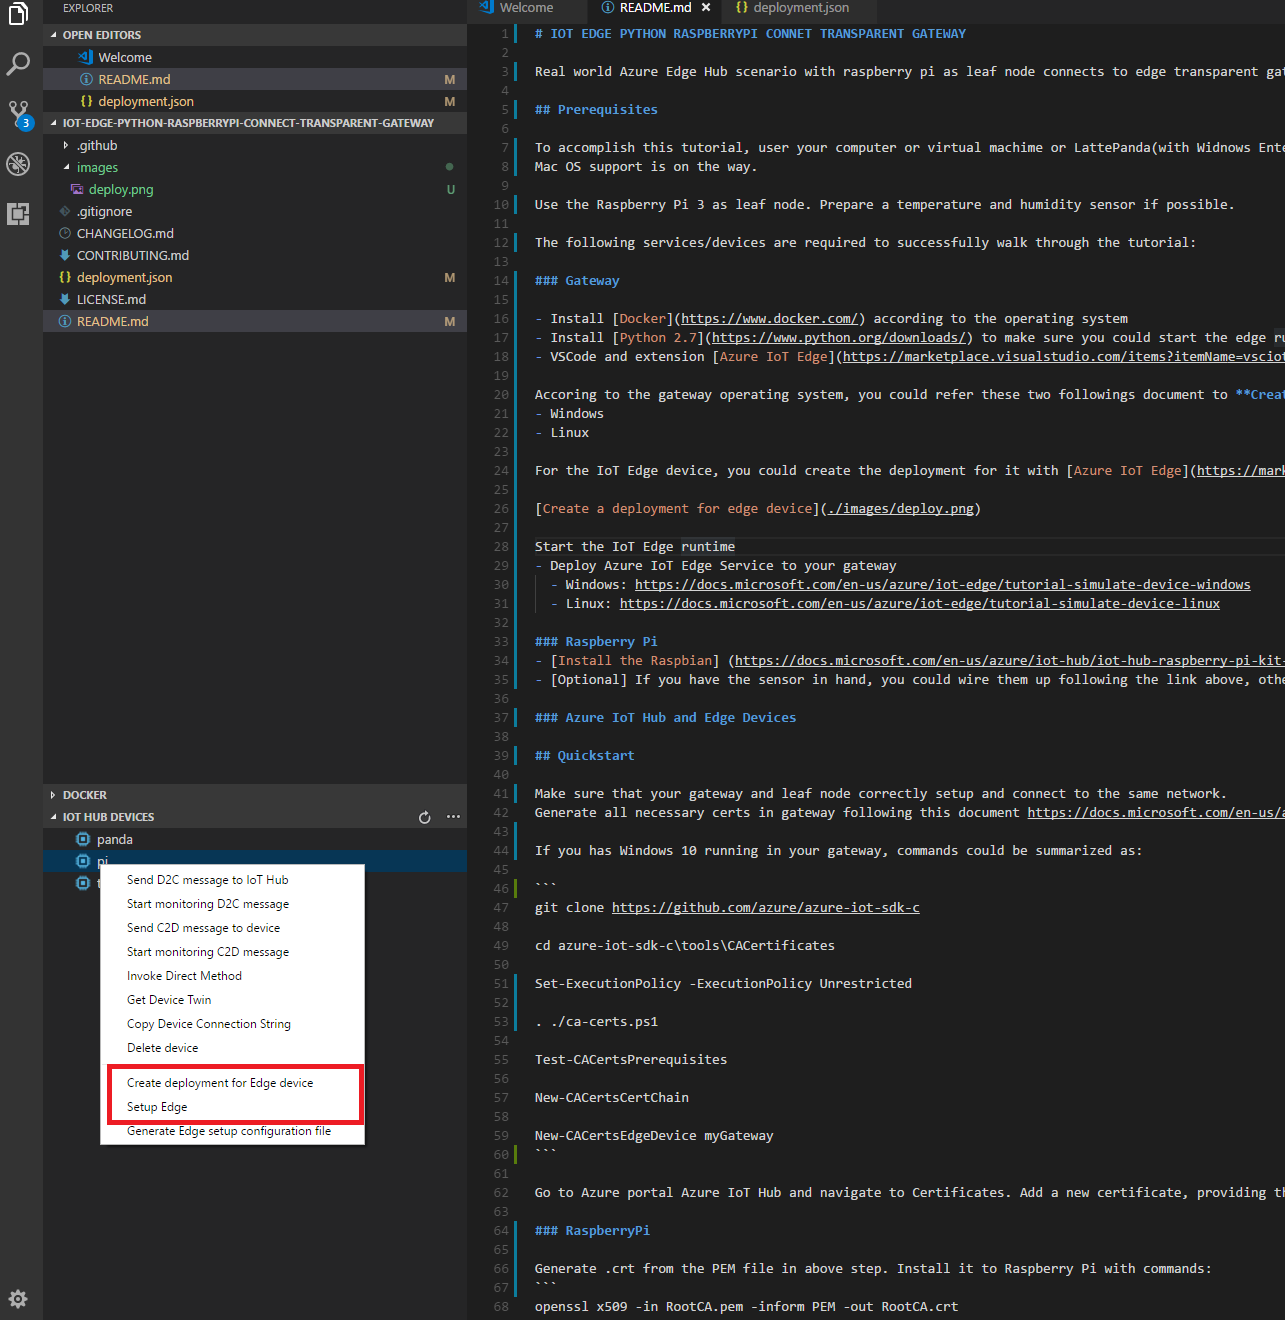
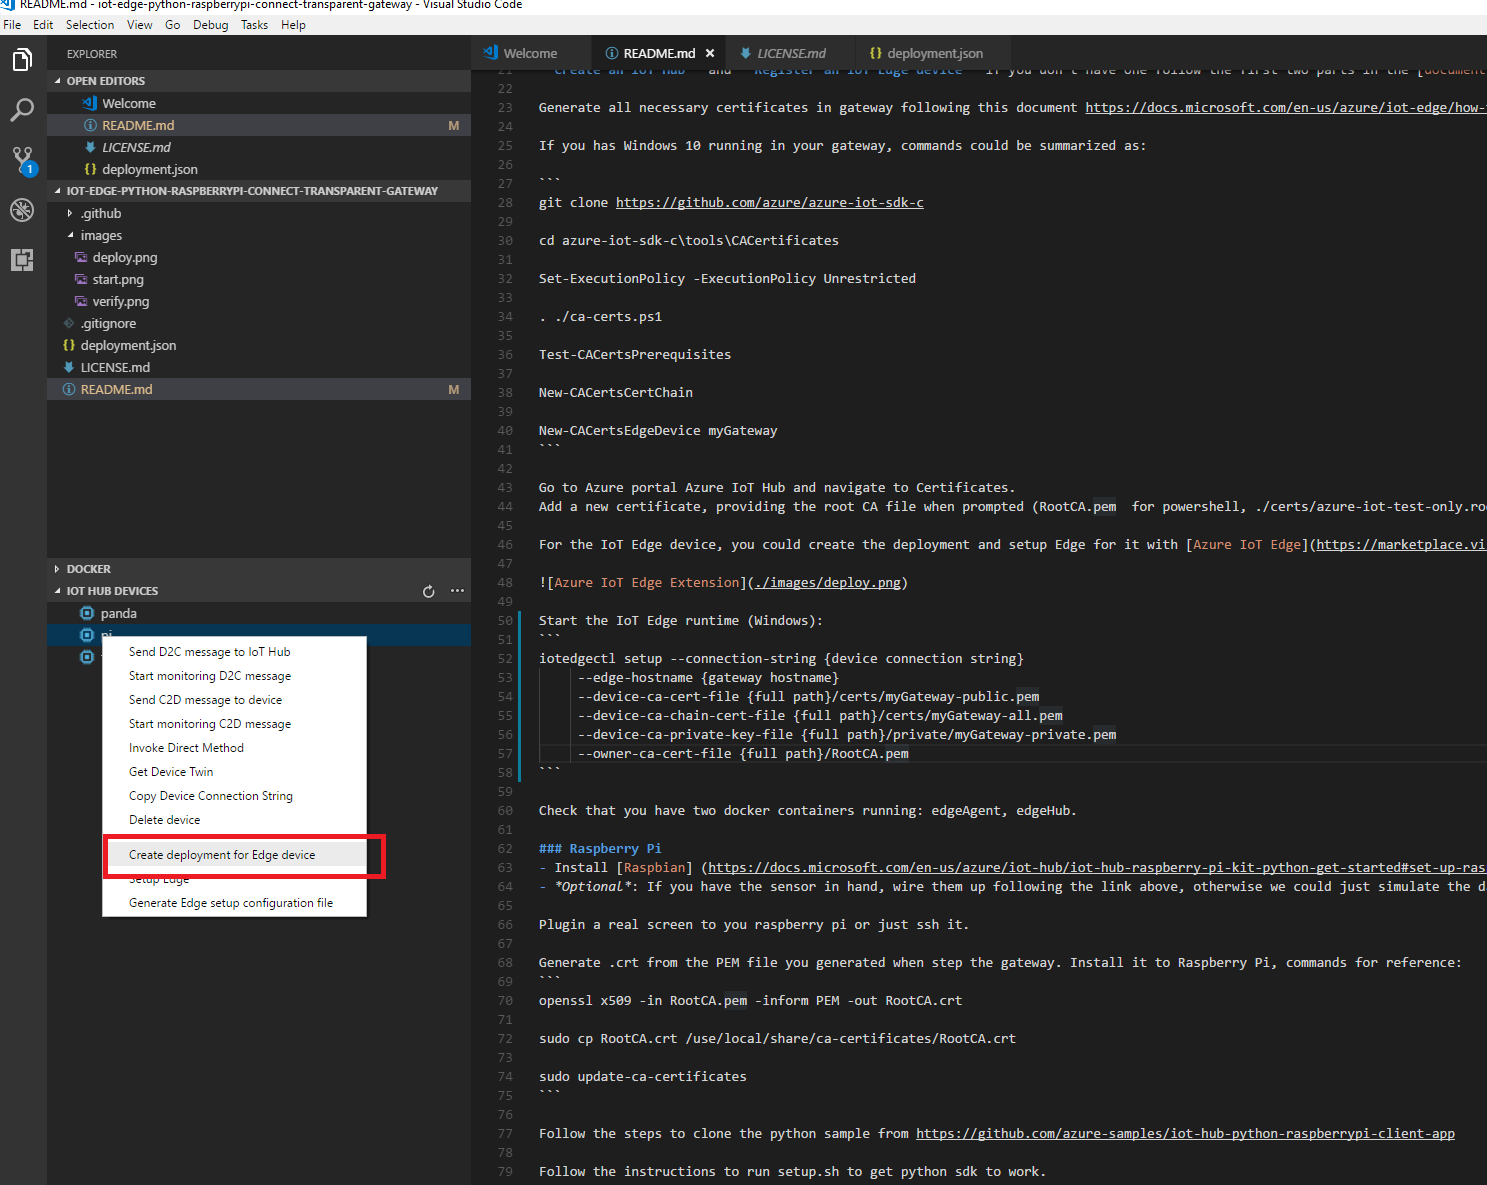
draft version 2

diff --git a/README.md b/README.md
@@ -47,9 +47,16 @@ For the IoT Edge device, you could create the deployment and setup Edge for it w
 
 ![Azure IoT Edge Extension](./images/deploy.png)
 
-Start the IoT Edge runtime in Vscode with F1 command:
-
-![Start Edge](./images/start.png)
+Start the IoT Edge runtime (Windows):
+```
+iotedgectl setup --connection-string {device connection string}
+     --edge-hostname {gateway hostname}
+     --device-ca-cert-file {full path}/certs/myGateway-public.pem
+     --device-ca-chain-cert-file {full path}/certs/myGateway-all.pem
+     --device-ca-private-key-file {full path}/private/myGateway-private.pem
+     --owner-ca-cert-file {full path}/RootCA.pem
+```
+If you are wokring on Linux gateway, you could find corresponding command in document when you [generated the certificates](https://docs.microsoft.com/en-us/azure/iot-edge/how-to-create-transparent-gateway).
 
 Check that you have two docker containers running: edgeAgent, edgeHub.
 
@@ -73,22 +80,18 @@ Follow the steps to clone the python sample from https://github.com/azure-sample
 Follow the instructions to run setup.sh to get python sdk to work.
  
 Run the app.py with device connectionstring appended with GatewayHostName, e.g.:
-```HostName=qisun-iothub.azure-devices.net;DeviceId=pi;SharedAccessKey=XXXXX;GatewayHostName=<gateway machine name>```
+
+```python app.py "HostName=qisun-iothub.azure-devices.net;DeviceId=pi;SharedAccessKey=XXXXX;GatewayHostName=<gateway host name>"```
+
+You could see Raspberry Pi sending messages to Edge Gateway:
+
+![pi logs](./images/pi.png)
 
 Verify the gateway receives the messages with ```dockers log –f edgeHub```
+
+![edgehub logs](./images/hublogs.png)
 
 Verify messages goes to iothub with VSCode extension:
 
 ![Verify messages come in iothub](./images/verify.png)
 
-## Demo
-
-A demo app is included to show how to use the project.
-
-To run the demo, follow these steps:
-
-(Add steps to start up the demo)
-
-1.
-2.
-3.
